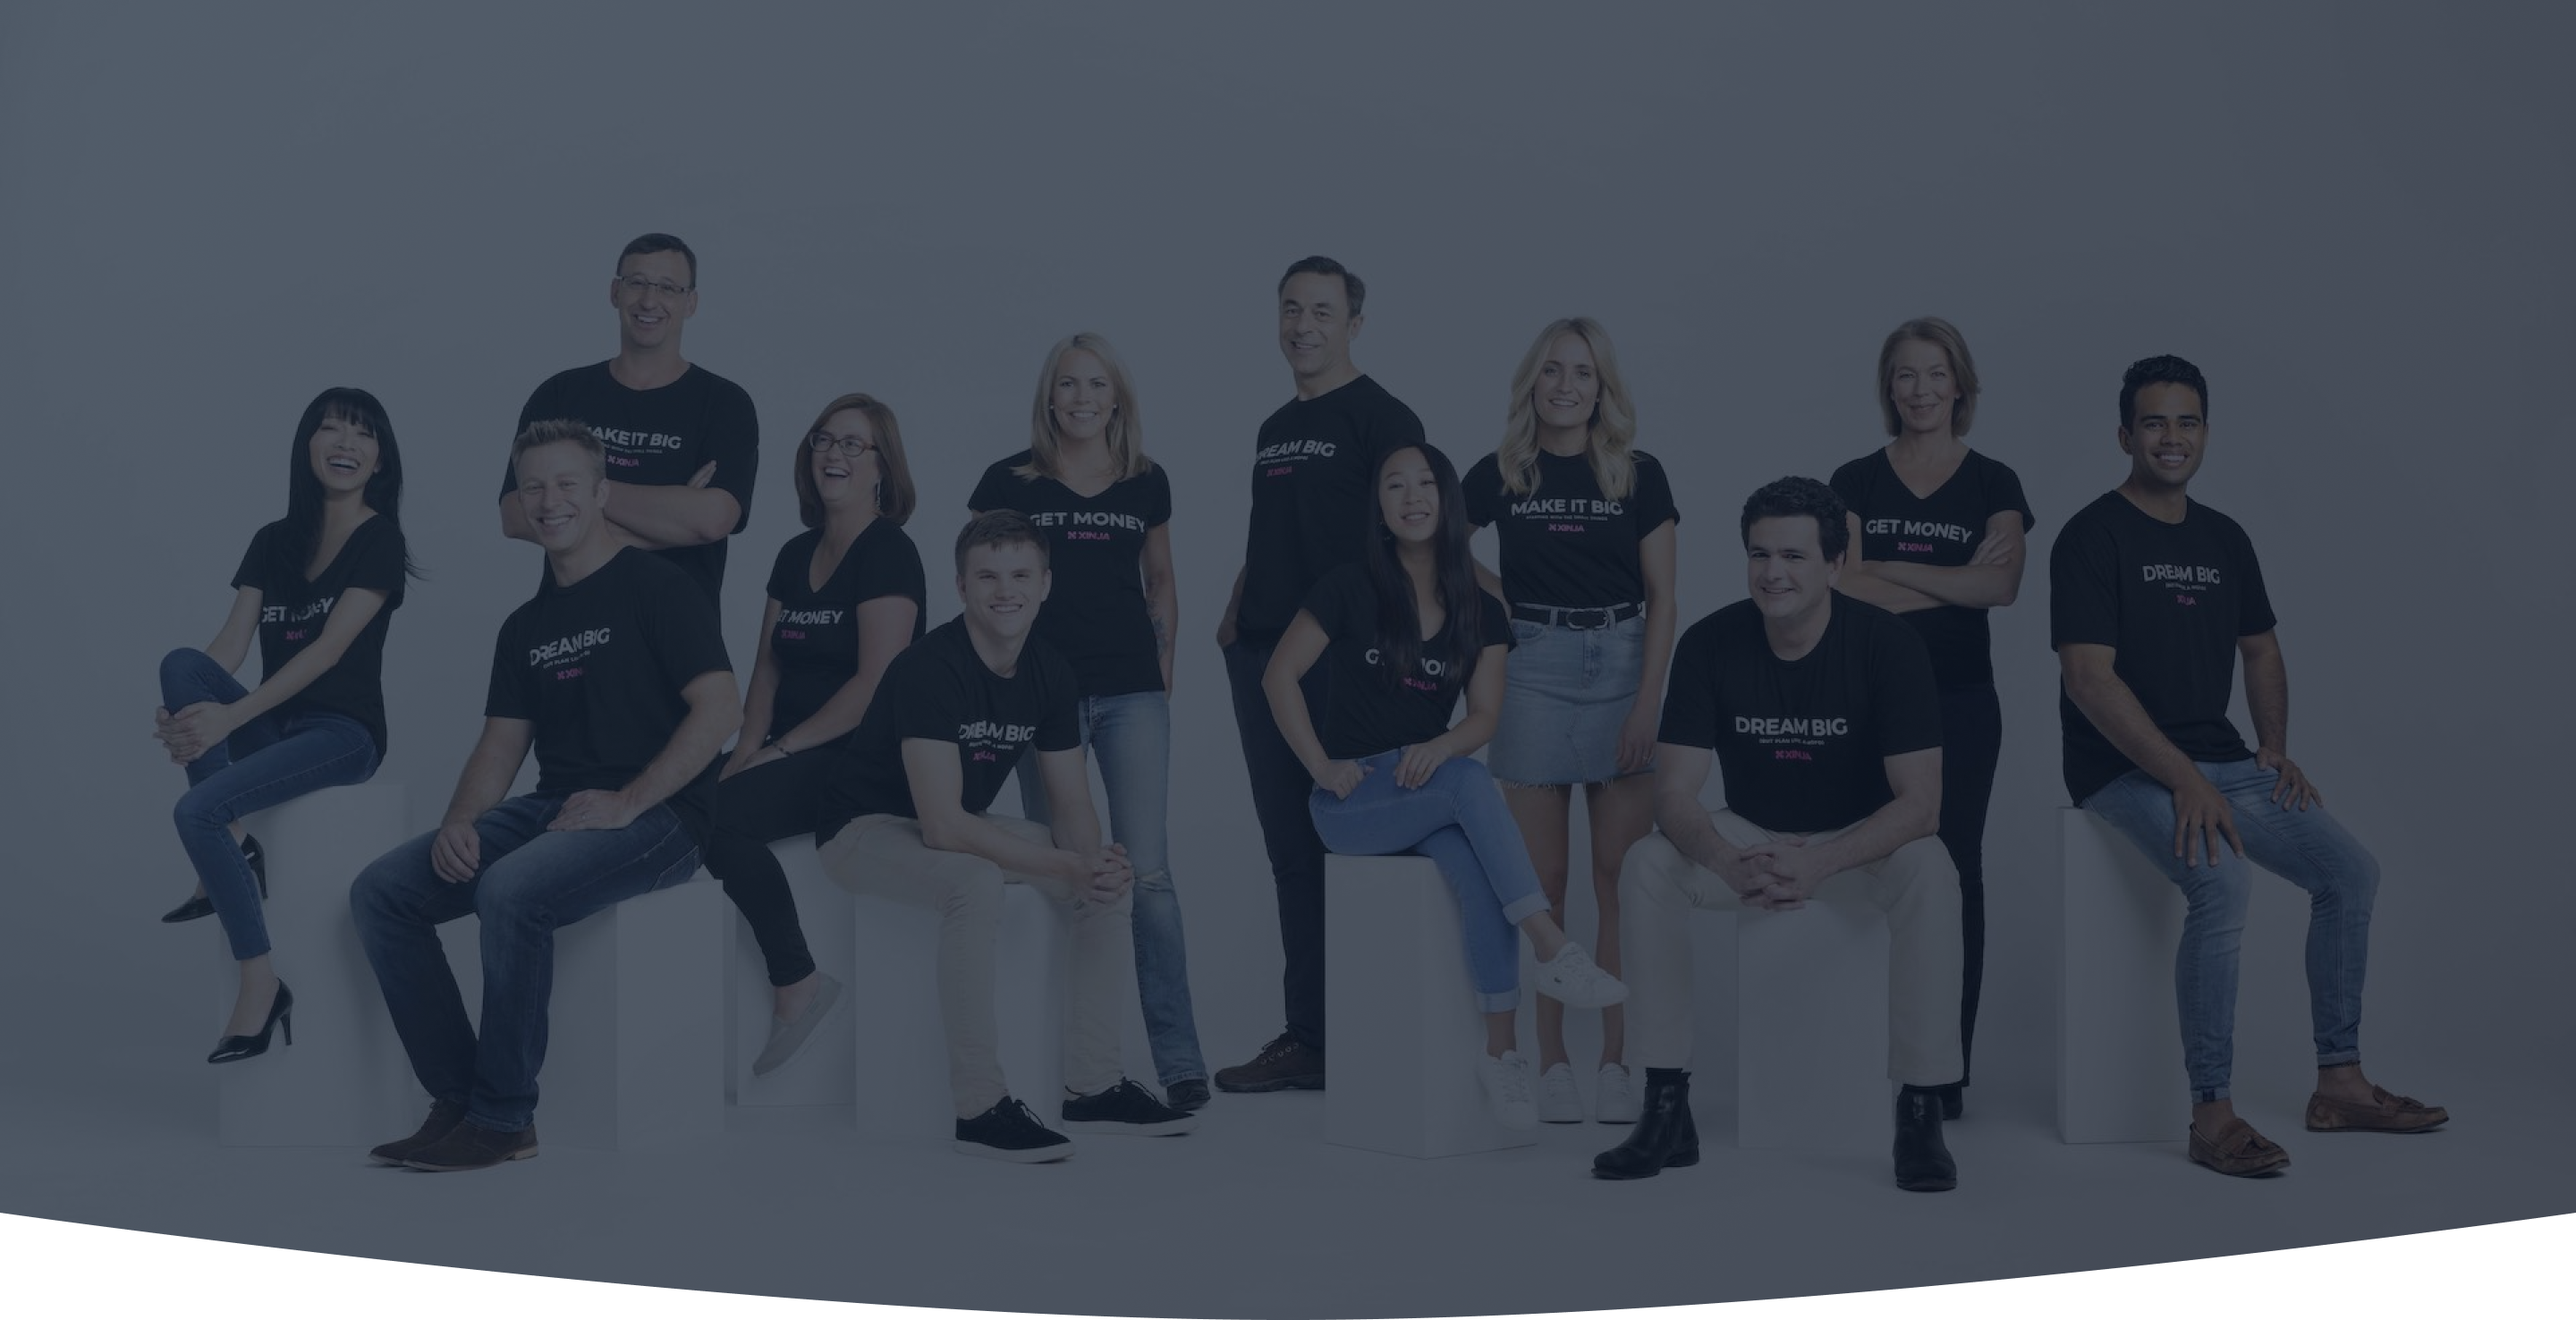
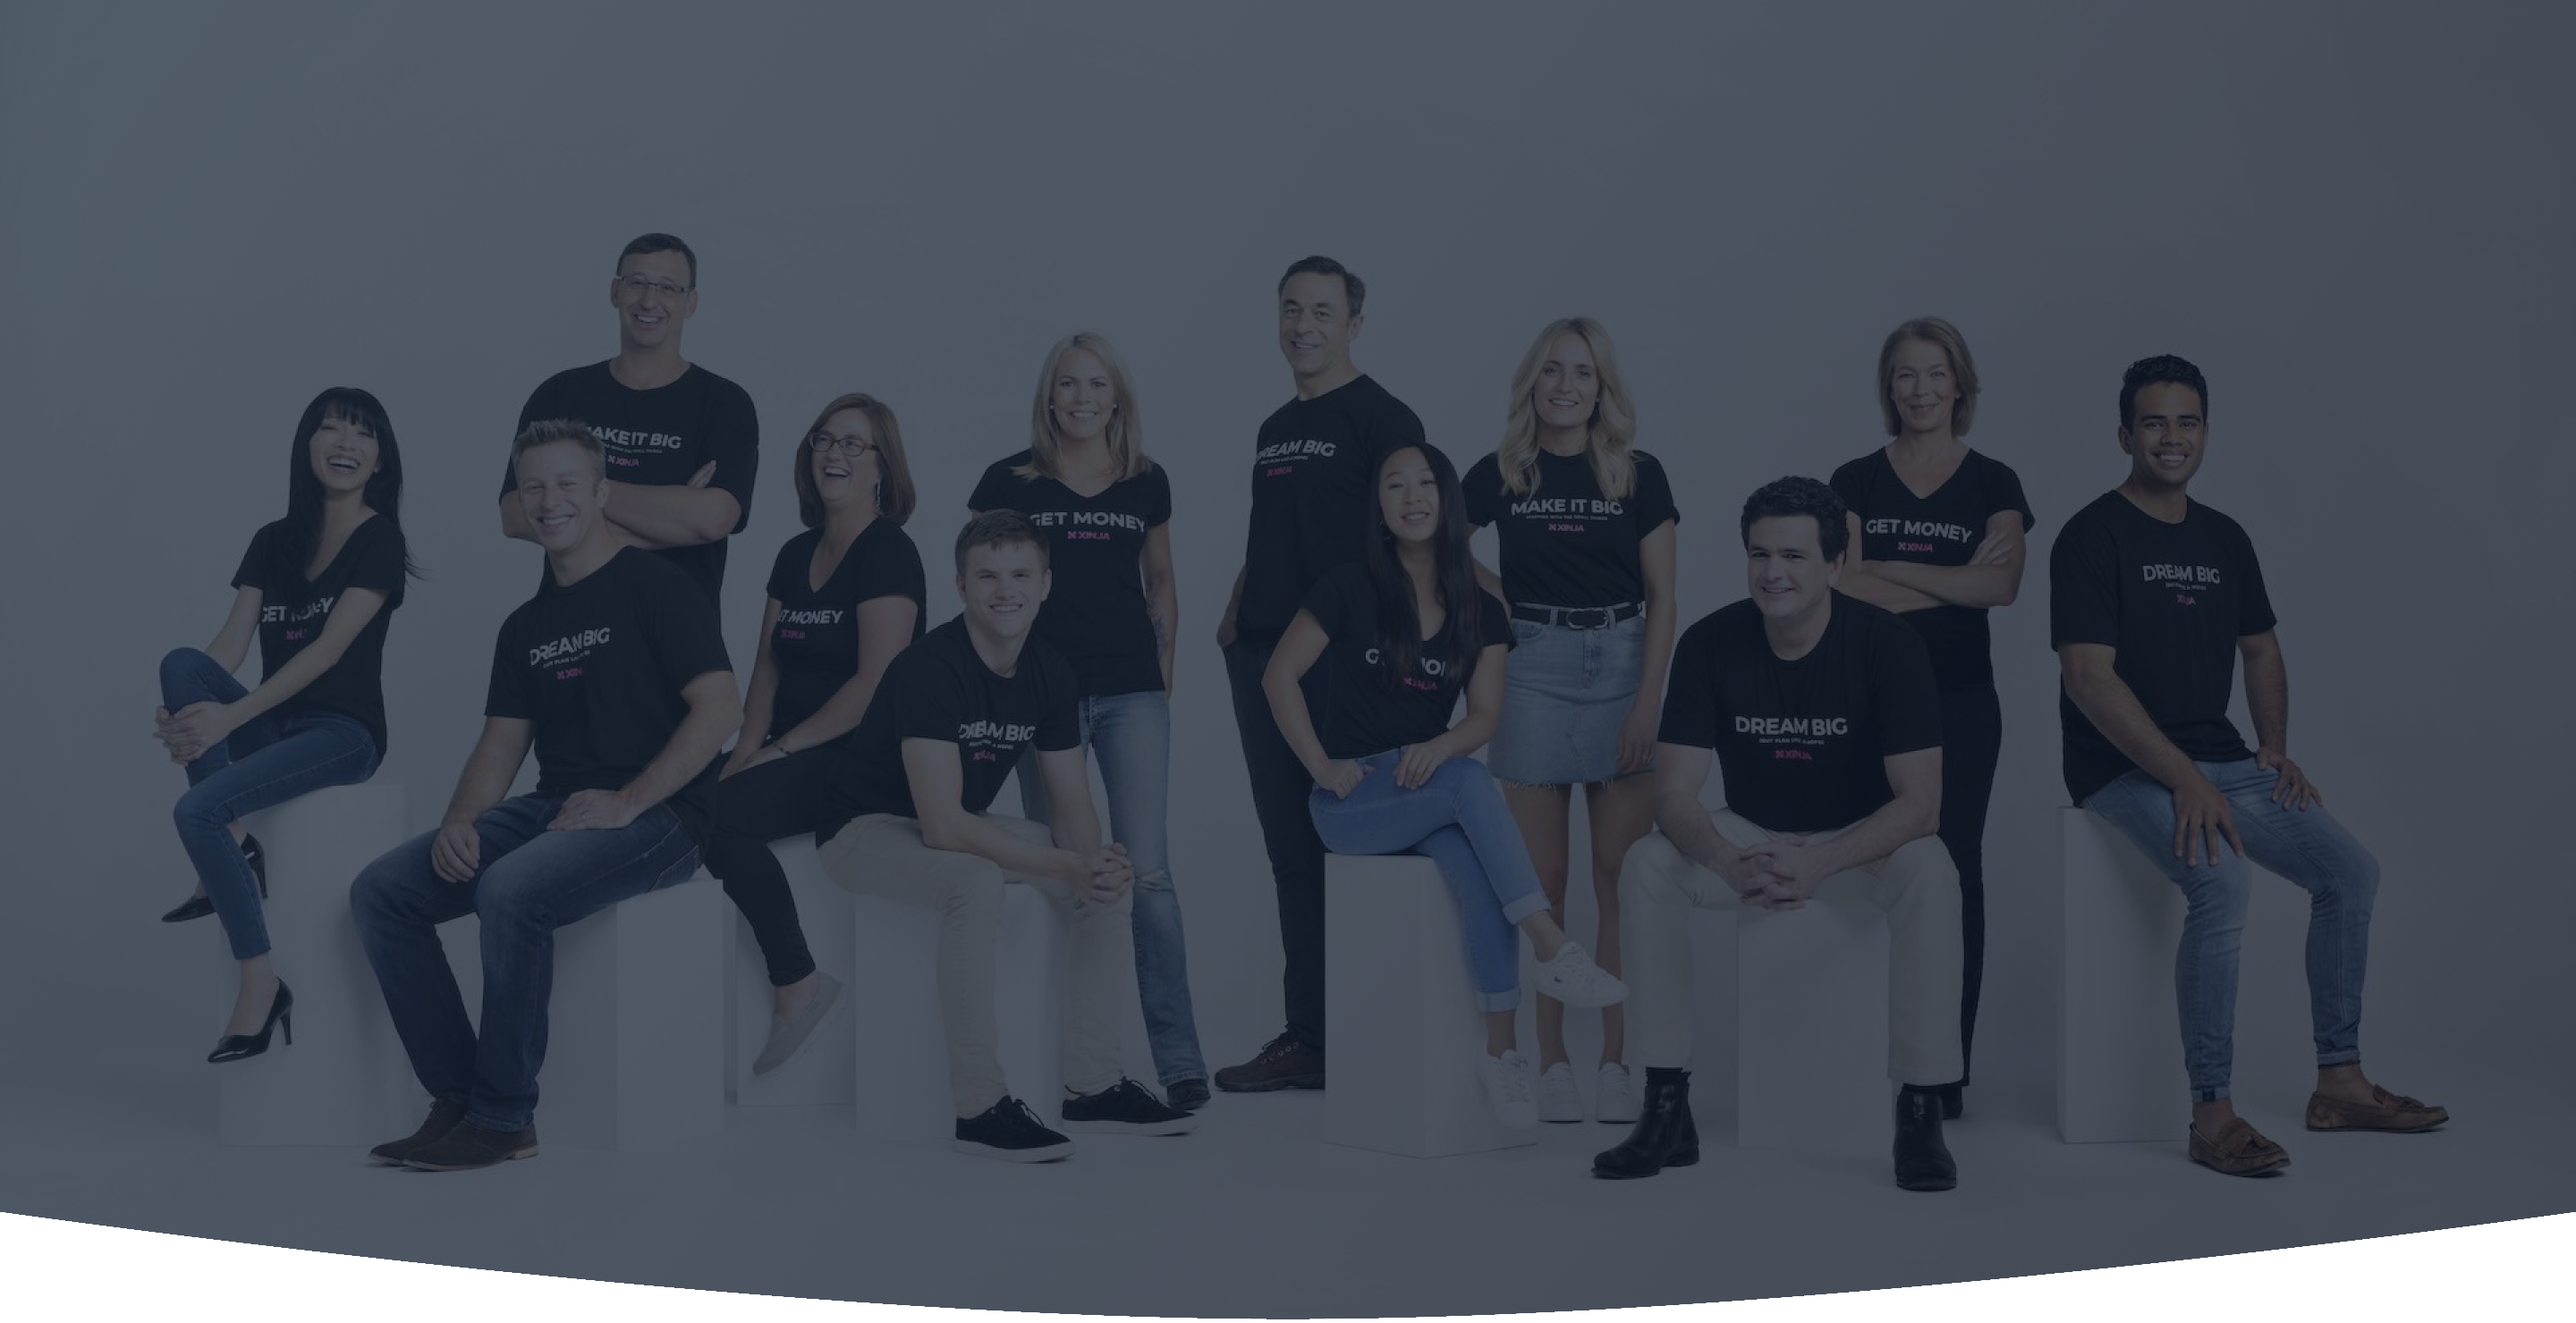
eCom strange lines on iOS

diff --git a/ecom/css/style.css b/ecom/css/style.css
@@ -860,7 +860,7 @@ header .green-button {
   position: absolute;
   bottom: -3vw;
   left: 0;
-  min-height: 3vw;
+  min-height: 3.05vw;
   width: 100%;
   background-image: url("../img/our-work-bottom-curve.svg");
   background-size: cover;
@@ -1073,7 +1073,7 @@ footer {
 
 .call-to-action-bottom-curve {
   position: absolute;
-  bottom: -1px;
+  bottom: 0px;
   left: 0;
   min-height: 3vw;
   width: 100%;
@@ -1130,7 +1130,7 @@ footer {
   position: absolute;
   bottom: -2.5vw;
   left: 0;
-  min-height: 2.5vw;
+  min-height: 2.55vw;
   width: 100%;
   background-image: url("../img/other-cases-bottom-curve.svg");
   background-size: cover;
@@ -1173,7 +1173,7 @@ footer {
   background-position: 50% 100%;
   position: relative;
   margin-top: -145px;
-  margin-bottom: -1px;
+  margin-bottom: 0;
   padding-top: 200px;
   padding-bottom: 150px;
   min-height: 800px; }
@@ -1273,7 +1273,7 @@ footer {
   position: absolute;
   bottom: -2.5vw;
   left: 0;
-  min-height: 2.5vw;
+  min-height: 2.55vw;
   width: 100%;
   background-image: url("../img/our-team-bottom-curve.svg");
   background-size: cover;
@@ -1297,7 +1297,7 @@ footer {
     margin-bottom: 24px; }
   #join-hero .join-hero-bottom-curve {
     position: absolute;
-    bottom: -1px;
+    bottom: 0;
     left: 0;
     min-height: 5vw;
     width: 100%;

diff --git a/ecom/scss/style.scss b/ecom/scss/style.scss
@@ -397,7 +397,7 @@ header .green-button{
 	position: absolute;
 	bottom: -3vw;
 	left: 0;
-	min-height: 3vw;
+	min-height: 3.05vw;
 	width: 100%;
 	background-image: url("../img/our-work-bottom-curve.svg");
 	background-size: cover;
@@ -653,7 +653,7 @@ footer{
 
 .call-to-action-bottom-curve{
 	position: absolute;
-	bottom: -1px;
+	bottom: 0px;
 	left: 0;
 	min-height: 3vw;
 	width: 100%;
@@ -716,7 +716,7 @@ footer{
 	position: absolute;
 	bottom:-2.5vw;
 	left: 0;
-	min-height: 2.5vw;
+	min-height: 2.55vw;
 	width: 100%;
 	background-image: url("../img/other-cases-bottom-curve.svg");
 	background-size: cover;
@@ -759,7 +759,7 @@ footer{
 	background-position: 50% 100%;
 	position: relative;
 	margin-top: -145px;
-	margin-bottom: -1px;
+	margin-bottom: 0;
 	padding-top: 200px;
 	padding-bottom: 150px;
 	min-height: 800px;
@@ -873,7 +873,7 @@ footer{
 	position: absolute;
 	bottom:-2.5vw;
 	left: 0;
-	min-height: 2.5vw;
+	min-height: 2.55vw;
 	width: 100%;
 	background-image: url("../img/our-team-bottom-curve.svg");
 	background-size: cover;
@@ -898,7 +898,7 @@ footer{
 	}
 	.join-hero-bottom-curve{
 		position: absolute;
-		bottom: -1px;
+		bottom: 0;
 		left: 0;
 		min-height: 5vw;
 		width: 100%;
